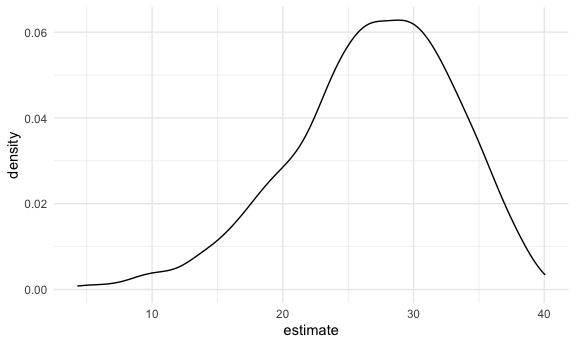
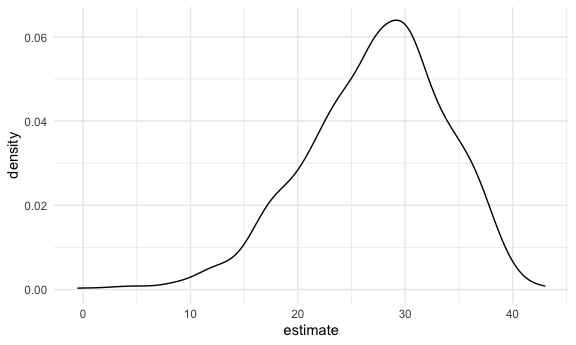
save file

diff --git a/bootstrap.md b/bootstrap.md
@@ -66,8 +66,8 @@ sim_df_constant |>
 
 | term        | estimate | std.error | statistic | p.value |
 |:------------|---------:|----------:|----------:|--------:|
-| (Intercept) |    1.959 |     0.086 |    22.722 |       0 |
-| x           |    2.965 |     0.064 |    46.304 |       0 |
+| (Intercept) |    1.915 |     0.094 |    20.344 |       0 |
+| x           |    3.119 |     0.065 |    47.921 |       0 |
 
 ``` r
 sim_df_nonconstant |> 
@@ -78,8 +78,8 @@ sim_df_nonconstant |>
 
 | term        | estimate | std.error | statistic | p.value |
 |:------------|---------:|----------:|----------:|--------:|
-| (Intercept) |    2.081 |     0.082 |    25.319 |       0 |
-| x           |    2.830 |     0.061 |    46.359 |       0 |
+| (Intercept) |    2.033 |     0.106 |    19.224 |       0 |
+| x           |    3.078 |     0.073 |    42.096 |       0 |
 
 Never trust p-value is the bottom line here
 
@@ -117,8 +117,8 @@ sim_df_nonconstant |>
 
 | term        | estimate | std.error | statistic | p.value |
 |:------------|---------:|----------:|----------:|--------:|
-| (Intercept) |    2.124 |     0.084 |    25.220 |       0 |
-| x           |    2.820 |     0.060 |    46.755 |       0 |
+| (Intercept) |    2.008 |     0.096 |    20.917 |       0 |
+| x           |    3.093 |     0.068 |    45.187 |       0 |
 
 ## bootstrap A LOT
 
@@ -137,18 +137,18 @@ boot_straps |> unnest(strap_sample)
 ```
 
     ## # A tibble: 2,500 × 6
-    ##    strap_number     x   error     y models results         
-    ##           <int> <dbl>   <dbl> <dbl> <list> <list>          
-    ##  1            1 2.00   0.821   8.81 <lm>   <tibble [2 × 5]>
-    ##  2            1 2.00   0.821   8.81 <lm>   <tibble [2 × 5]>
-    ##  3            1 0.527 -0.0731  3.51 <lm>   <tibble [2 × 5]>
-    ##  4            1 0.809  0.607   5.03 <lm>   <tibble [2 × 5]>
-    ##  5            1 1.90  -0.610   7.09 <lm>   <tibble [2 × 5]>
-    ##  6            1 1.27  -0.469   5.34 <lm>   <tibble [2 × 5]>
-    ##  7            1 0.479  0.0735  3.51 <lm>   <tibble [2 × 5]>
-    ##  8            1 1.13   0.467   5.85 <lm>   <tibble [2 × 5]>
-    ##  9            1 1.31  -0.972   4.95 <lm>   <tibble [2 × 5]>
-    ## 10            1 1.50   0.531   7.04 <lm>   <tibble [2 × 5]>
+    ##    strap_number      x   error     y models results         
+    ##           <int>  <dbl>   <dbl> <dbl> <list> <list>          
+    ##  1            1  1.41   1.02   7.25  <lm>   <tibble [2 × 5]>
+    ##  2            1  1.76  -0.642  6.65  <lm>   <tibble [2 × 5]>
+    ##  3            1  0.910  0.169  4.90  <lm>   <tibble [2 × 5]>
+    ##  4            1  2.34   0.313  9.34  <lm>   <tibble [2 × 5]>
+    ##  5            1  2.49   0.0279 9.50  <lm>   <tibble [2 × 5]>
+    ##  6            1  0.309 -0.0513 2.87  <lm>   <tibble [2 × 5]>
+    ##  7            1  1.41   1.02   7.25  <lm>   <tibble [2 × 5]>
+    ##  8            1  0.699 -0.348  3.75  <lm>   <tibble [2 × 5]>
+    ##  9            1  1.19  -0.607  4.97  <lm>   <tibble [2 × 5]>
+    ## 10            1 -0.614  0.574  0.731 <lm>   <tibble [2 × 5]>
     ## # ℹ 2,490 more rows
 
 ``` r
@@ -165,8 +165,8 @@ boot_strap_results
 
 | term        | boot_se |
 |:------------|--------:|
-| (Intercept) |   0.050 |
-| x           |   0.067 |
+| (Intercept) |   0.072 |
+| x           |   0.131 |
 
 compare ti with our initial result:
 
@@ -179,8 +179,8 @@ sim_df_nonconstant |>
 
 | term        | estimate | std.error | statistic | p.value |
 |:------------|---------:|----------:|----------:|--------:|
-| (Intercept) |    2.081 |     0.082 |    25.319 |       0 |
-| x           |    2.830 |     0.061 |    46.359 |       0 |
+| (Intercept) |    2.033 |     0.106 |    19.224 |       0 |
+| x           |    3.078 |     0.073 |    42.096 |       0 |
 
 ``` r
 boot_straps = 
@@ -209,8 +209,8 @@ sim_df_constant |>
 
 | term        | estimate | std.error | statistic | p.value |
 |:------------|---------:|----------:|----------:|--------:|
-| (Intercept) |    1.959 |     0.086 |    22.722 |       0 |
-| x           |    2.965 |     0.064 |    46.304 |       0 |
+| (Intercept) |    1.915 |     0.094 |    20.344 |       0 |
+| x           |    3.119 |     0.065 |    47.921 |       0 |
 
 ## do this all using modelr
 
@@ -243,8 +243,8 @@ boot_straps |>
     ## # A tibble: 2 × 5
     ##   term        boot_est boot_se boot_ci_ll boot_ci_ul
     ##   <chr>          <dbl>   <dbl>      <dbl>      <dbl>
-    ## 1 (Intercept)     2.08  0.0477       1.98       2.17
-    ## 2 x               2.83  0.0782       2.68       2.99
+    ## 1 (Intercept)     2.03  0.0648       1.89       2.15
+    ## 2 x               3.08  0.0947       2.90       3.27
 
 ## Air BNB
 
@@ -313,5 +313,5 @@ boot_straps |>
     ## # A tibble: 2 × 5
     ##   term        boot_est boot_se boot_ci_ll boot_ci_ul
     ##   <chr>          <dbl>   <dbl>      <dbl>      <dbl>
-    ## 1 (Intercept)     2.08  0.0477       1.98       2.17
-    ## 2 x               2.83  0.0782       2.68       2.99
+    ## 1 (Intercept)     2.03  0.0648       1.89       2.15
+    ## 2 x               3.08  0.0947       2.90       3.27
